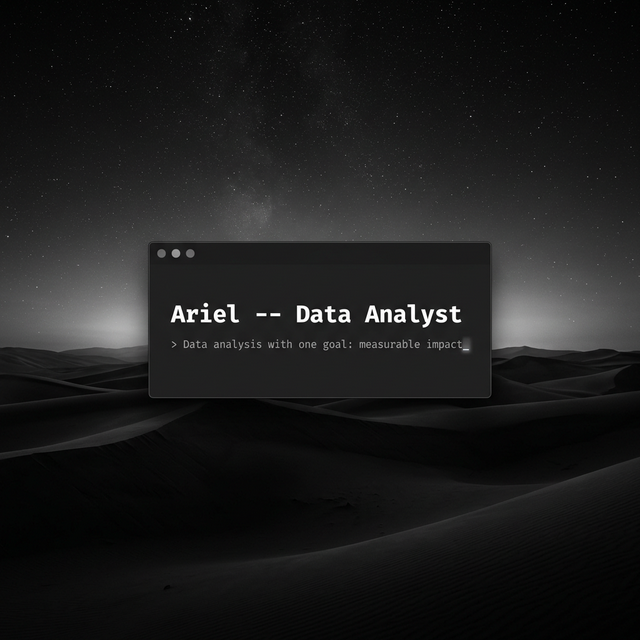
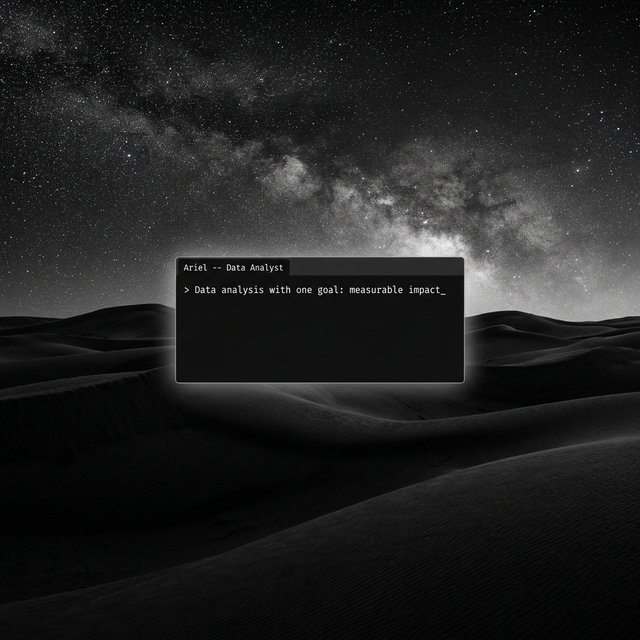
Add files via upload

diff --git a/README.md b/README.md
@@ -2,11 +2,11 @@
 ### Behavioral Insights · Data Strategy · Business Intelligence (ROI-Driven)
 
 <div align="center">
-  <img src="banner.png?v=4" alt="Ariel Banner" width="70%">
+  <img src="banner.png?v=5" alt="Ariel Banner" width="100%">
 </div>
 
 <div align="center">
-  <img src="separator.png?v=4" width="25%">
+  <img src="separator.png?v=5" width="100%">
 </div>
 
 ## 🎯 Value Proposition: The ROI of Behavioral Intelligence
@@ -17,7 +17,7 @@ With a formal background in **Psychology**, I specialize in decoding human behav
 > "Data is just a digital footprint of human behavior. Understanding the human behind the click is the difference between a report and a strategy."
 
 <div align="center">
-  <img src="separator.png?v=4" width="25%">
+  <img src="separator.png?v=5" width="100%">
 </div>
 
 ## 🌉 The Human-Data Bridge (My Process)
@@ -32,7 +32,7 @@ I transform technical complexity into persuasive business narratives through a s
 </div>
 
 <div align="center">
-  <img src="separator.png?v=4" width="25%">
+  <img src="separator.png?v=5" width="100%">
 </div>
 
 ## 🚀 Alpha Projects (READY Framework)
@@ -45,7 +45,7 @@ I transform technical complexity into persuasive business narratives through a s
 | **Churn Mitigation** | SQL · Jupyter · Power BI | Behavioral clustering to predict "at-risk" users based on interaction frequency. | 🔵 Planned |
 
 <div align="center">
-  <img src="separator.png?v=4" width="25%">
+  <img src="separator.png?v=5" width="100%">
 </div>
 
 ## 🛠 Strategic Stack
@@ -54,7 +54,7 @@ I transform technical complexity into persuasive business narratives through a s
 - **Narrative**: Executive Storytelling, Behavioral Heuristics, ROI Modeling.
 
 <div align="center">
-  <img src="separator.png?v=4" width="25%">
+  <img src="separator.png?v=5" width="100%">
 </div>
 
 ## 📬 Let's Talk Strategy
@@ -64,7 +64,7 @@ I am currently open to **Strategic Consultancies** and **High-Impact Analytics**
 - **Consultancy**: [alaioariel@gmail.com](mailto:alaioariel@gmail.com)
 
 <div align="center">
-  <img src="separator.png?v=4" width="25%">
+  <img src="separator.png?v=5" width="100%">
 </div>
 
 <!-- LAST_UPDATED_START -->
